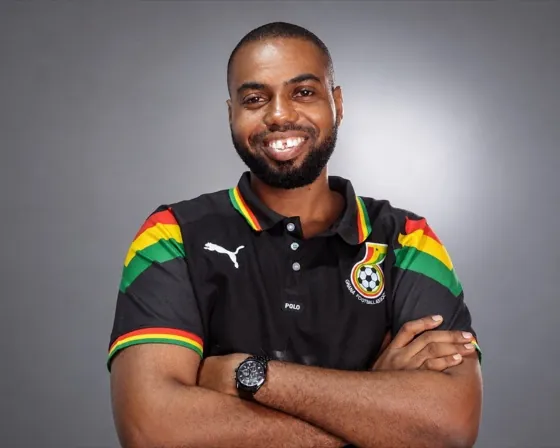
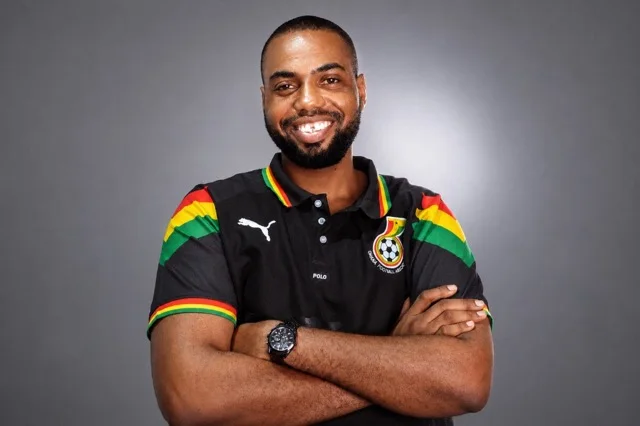
Update homepage celebration hero to new studio portrait.
Replace optimized WebP assets (1024×681 and 640×426), match landing aspect ratio, and refresh cached homepage on deploy.

diff --git a/database/migrations/2026_07_23_160000_refresh_birthday_homepage_hero_photo.php b/database/migrations/2026_07_23_160000_refresh_birthday_homepage_hero_photo.php
@@ -1,0 +1,27 @@
+<?php
+
+use App\Models\Setting;
+use App\Services\BirthdayCelebrationService;
+use App\Services\PageCacheService;
+use Illuminate\Database\Migrations\Migration;
+use Illuminate\Support\Facades\Cache;
+use Illuminate\Support\Facades\Schema;
+
+return new class extends Migration
+{
+    public function up(): void
+    {
+        if (! Schema::hasTable('settings')) {
+            return;
+        }
+
+        Setting::setValue(Setting::KEY_BIRTHDAY_CELEBRATION_IMAGE, BirthdayCelebrationService::DEFAULT_IMAGE_PATH);
+        Cache::forget('setting:'.Setting::KEY_BIRTHDAY_CELEBRATION_IMAGE);
+        app(PageCacheService::class)->bumpVersion();
+    }
+
+    public function down(): void
+    {
+        // Keep current image path on rollback.
+    }
+};

diff --git a/resources/views/student/landing.blade.php b/resources/views/student/landing.blade.php
@@ -746,6 +746,7 @@
     max-height: min(72vh, 28rem);
     width: 100%;
     height: auto;
+    aspect-ratio: 1024 / 681;
 }
 </style>
 @endpush
